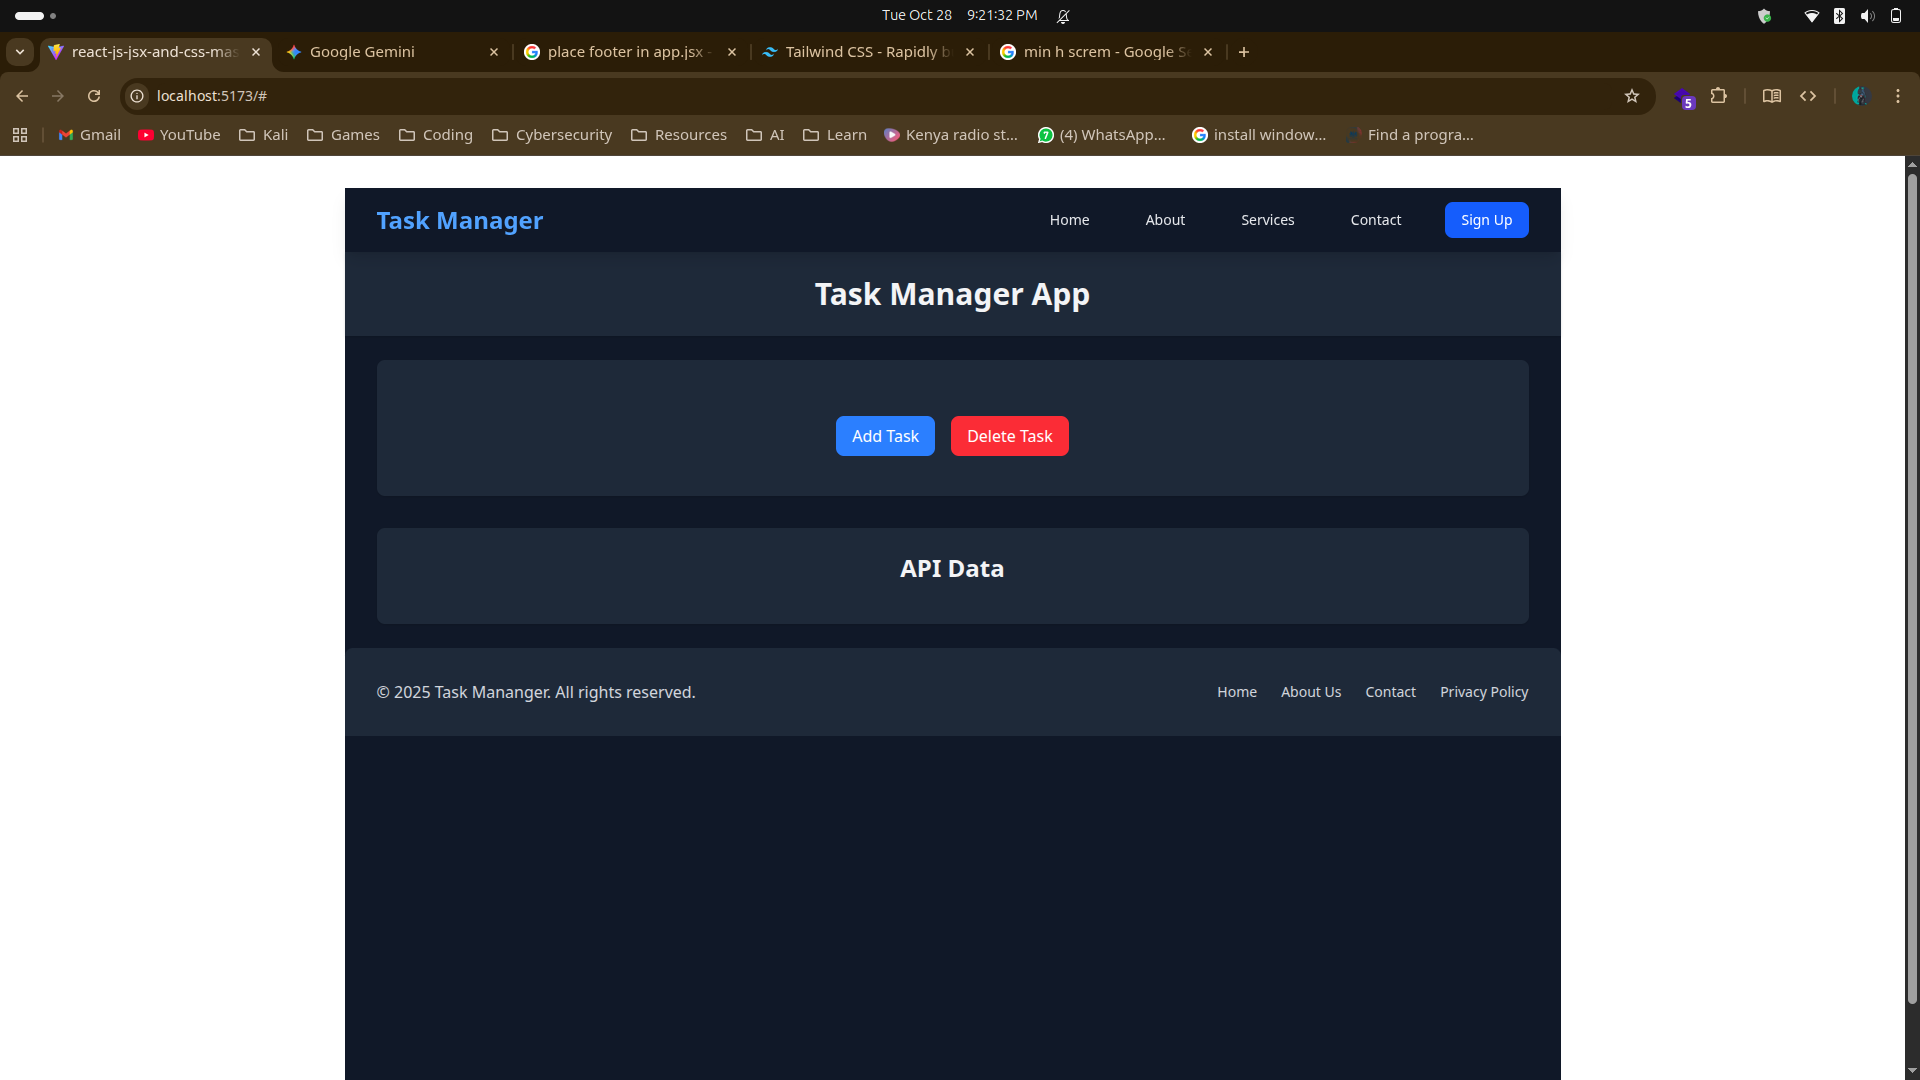
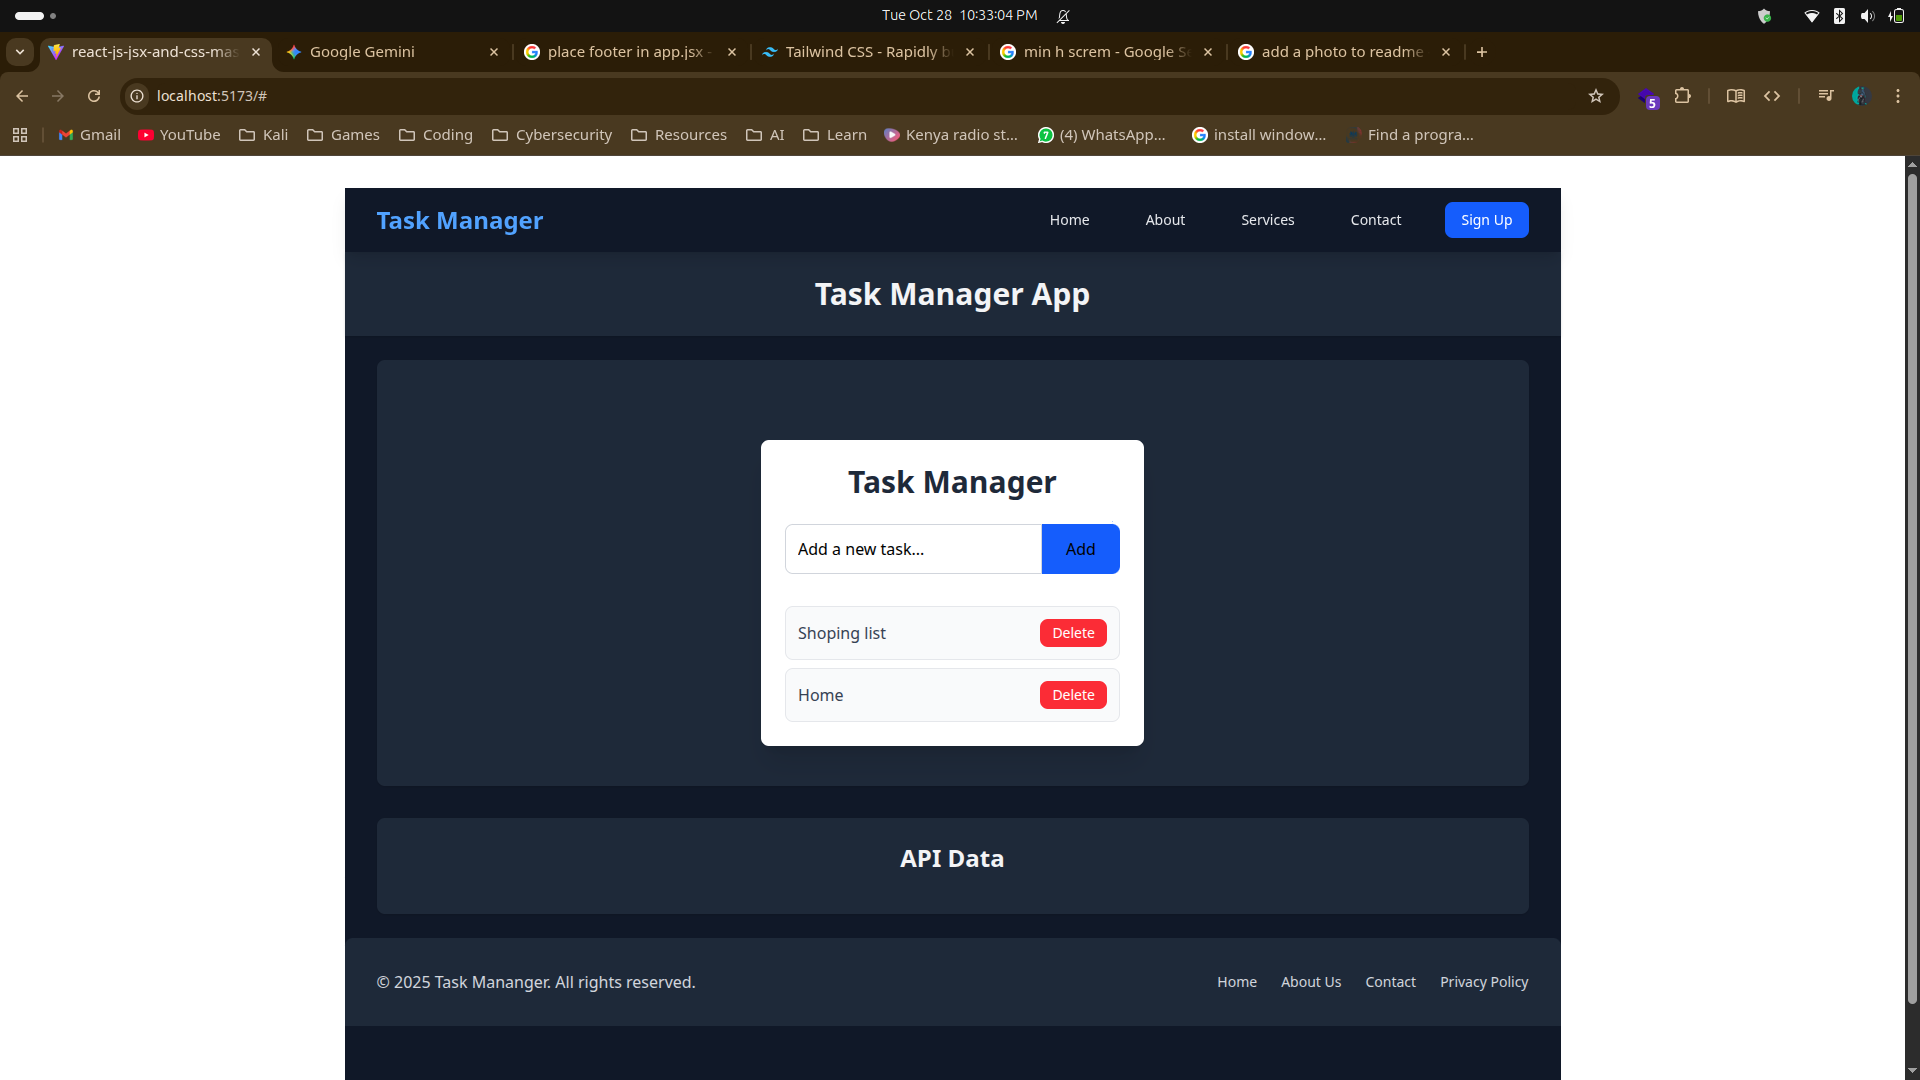
initial

diff --git a/src/components/TaskManager.jsx b/src/components/TaskManager.jsx
@@ -1,13 +1,104 @@
-import React from 'react';
+import React, { useState } from 'react';
 
-const TaskManager = () => {
-    return (
-        <div>
-            <h1>Task Manager</h1>
-            {/* Task management functionality will go here */}
-            
+// Using objects for tasks makes them easier to manage, especially for deletion.
+// Each task will have a unique `id` and its `text`.
+function TaskManager() {
+  const [tasks, setTasks] = useState([]);
+  // State to hold the value of the new task input field
+  const [newTaskText, setNewTaskText] = useState("");
+
+  /**
+   * Adds a new task to the list.
+   */
+  const addTask = () => {
+    // Trim whitespace and check if the task text is not empty
+    const trimmedText = newTaskText.trim();
+    if (trimmedText) {
+      const newTask = {
+        id: Date.now(), // Use a simple unique ID (timestamp)
+        text: trimmedText,
+      };
+      // Add the new task object to the state
+      setTasks([...tasks, newTask]);
+      // Clear the input field after adding
+      setNewTaskText("");
+    }
+  };
+
+  /**
+   * Deletes a task by its unique ID.
+   * @param {number} idToDelete - The id of the task to be deleted.
+   */
+  const deleteTask = (idToDelete) => {
+    // Filter out the task with the matching id
+    setTasks(tasks.filter((task) => task.id !== idToDelete));
+  };
+
+  /**
+   * Handles the Enter key press in the input field to add a task.
+   * @param {React.KeyboardEvent<HTMLInputElement>} event - The keyboard event.
+   */
+  const handleKeyDown = (event) => {
+    if (event.key === 'Enter') {
+      addTask();
+    }
+  };
+
+  return (
+    // Center the component and give it a max width for better appearance
+    <div className="max-w-md mx-auto mt-10 p-6 bg-white rounded-lg shadow-xl">
+      <h2 className="text-3xl font-bold text-center mb-6 text-gray-800">Task Manager</h2>
+      <div className="flex flex-col items-center">
+        {/* Input group for adding new tasks */}
+        <div className="flex w-full mb-4">
+          <input
+            type="text "
+            placeholder="Add a new task..."
+            className="flex-grow text-black border border-gray-300 rounded-l-lg p-3 focus:outline-none focus:ring-2 focus:ring-blue-500"
+            // Controlled component: value is tied to state
+            value={newTaskText}
+            // Update state on every change
+            onChange={(e) => setNewTaskText(e.target.value)}
+            // Allow adding with Enter key
+            onKeyDown={handleKeyDown}
+          />
+          <button
+            className="bg-blue-600 text-black px-6 py-3 rounded-r-lg hover:bg-blue-700 focus:outline-none focus:ring-2 focus:ring-blue-500 transition-colors"
+            // Add the task from state
+            onClick={addTask}
+          >
+            Add
+          </button>
         </div>
-    );
-};
+      </div>
+
+      {/* List of tasks */}
+      <ul className="mt-4 space-y-2">
+        {tasks.length > 0 ? (
+          tasks.map((task) => (
+            // Use the unique task.id as the key
+            <li
+              key={task.id}
+              className="flex items-center justify-between border border-gray-200 p-3 rounded-lg bg-gray-50"
+            >
+              {/* Display the task text */}
+              <span className="text-gray-700">{task.text}</span>
+              {/* Button to delete this specific task */}
+              <button
+                className="bg-red-500 text-white px-3 py-1 rounded-lg hover:bg-red-600 focus:outline-none focus:ring-2 focus:ring-red-400 transition-colors text-sm"
+                onClick={() => deleteTask(task.id)}
+              >
+                Delete
+              </button>
+            </li>
+          ))
+        ) : (
+          // Show a message when there are no tasks
+          <li className="text-center text-gray-500 p-3">No tasks yet.</li>
+        )}
+      </ul>
+    </div>
+  );
+}
 
 export default TaskManager;
